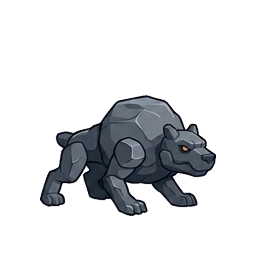
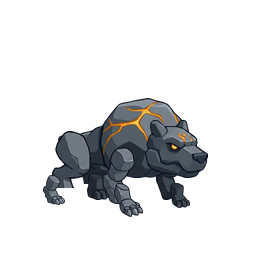
R6 G4 2차 비평 선택 바위 거인(stone) runner-t1 용암 균열·시인성 보강

Changed region(s): [[0.1562, 0.375, 0.8438, 0.8438]]

diff --git a/asset-source/r6/monsters/stone/STATUS.md b/asset-source/r6/monsters/stone/STATUS.md
@@ -38,4 +38,5 @@
 - `boss-t1/T1` (비평 4항): 등 위 바위 아치·틸 수정 조각·초대형 비대칭 공성 망치를 갖춘 웅크린 보스 전용 실루엣으로 재작화 (`cut_parts` `issues=0` · 11/11 슬롯, 모의 `fit_parts` IoU `0.731`, 32px 보스-일반 최대 IoU `0.647`, 지형/길 대비 `1.590/1.531`, 흰색·마젠타 잔여 `0/0`).
 - `boss-t3/T3` (비평 8항): 쌍둥이 용암 굴뚝·분화구 어깨·비대칭 지면 충격 팔을 갖춘 화산 거신으로 재작화 (`cut_parts` `issues=0` · 10/10 슬롯, 모의 `fit_parts` IoU `0.763`, 32px 보스-일반 최대 IoU `0.683`, 지형/길 대비 `1.767/1.467`, 흰색·마젠타 잔여 `0/0`).
 - `special/T4` (비평 9항): 다단 육각 현무암 제단·부유 암석 고리·대형 틸 수정탑·좌우 위성 수정 다발로 T3를 상회하는 최종형으로 재작화 (`cut_parts` `issues=0` · 3/3 슬롯, T1 관절 기준 모의 `fit_parts` IoU `0.804`, 지형/길 대비 `2.068/1.462`, 흰색·마젠타 잔여 `0/0`).
+- `runner/T1` (2차 비평 선택): `body`·`head`에 앰버 용암 균열선·밝은 앰버 눈·3단 각면 명암을 더해 길 위 시인성 보강 (`cut_parts` `issues=0` · 10/10 슬롯, 모의 `fit_parts` IoU `0.854`, 32px 지형/길 대비 `1.803/1.453`, 흰색·마젠타 잔여 `0/0`).
 - `docs/renewal/r6/bible/sheets/monsters-stone-parts-all.webp` 갱신 완료.
